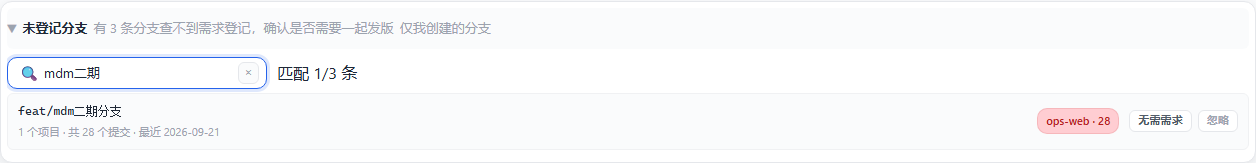
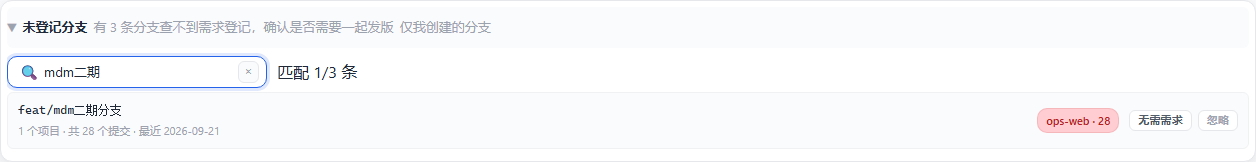
feat(release-pilot): 引擎端口漂移时在页头提示「数据按来源隔离」
localStorage 按「协议+主机+端口」隔离：v1 占着 1949 时 v2 会漂到 1950，
此时页面看到的是另一份（通常是空的）数据，很容易被当成「数据丢了」。
页头现在显示「引擎端口 1950（非默认）」徽标，悬停说明原因与恢复办法。

验证脚本新增两条断言：端口非默认时徽标可见（用临时改 .server-port + 独立 page 验证，
不影响主流程），端口正常时不出现。

diff --git a/todo-release.js b/todo-release.js
@@ -10,7 +10,17 @@ const JSON_FILENAME = 'toDo.json'
  * 所以启动时先读端口文件，读不到再退回默认值（旧引擎不写这个文件，属正常情况）。
  */
 const DEFAULT_API_PORT = 1949
-const api = { port: DEFAULT_API_PORT }
+// 用 reactive 而不是普通对象：端口是启动后才知道的，模板里的提示要跟着它出现
+const api = reactive({ port: DEFAULT_API_PORT })
+
+/**
+ * 引擎跑在非默认端口上。
+ *
+ * 这不仅是「换个地址」：localStorage 按来源（协议+主机+端口）隔离，
+ * 端口一变页面看到的就是另一份数据（通常是空的）。所以一旦漂移必须在界面上说清楚，
+ * 否则用户会以为「数据丢了」。
+ */
+const portShifted = computed(() => api.port !== DEFAULT_API_PORT)
 
 async function resolveApiPort() {
   try {
@@ -1641,6 +1651,8 @@ createApp({
       unregExpanded: computed({ get: () => state.unregExpanded, set: v => { state.unregExpanded = v } }),
       unregKeyword: computed({ get: () => state.unregKeyword, set: v => { state.unregKeyword = v } }),
       indexDiagnostics,
+      portShifted,
+      apiPort: computed(() => api.port),
       indexConfig: computed(() => state.indexConfig),
       indexNotMineTotal,
       // v2 飞书同步别名

diff --git a/todo-release.css b/todo-release.css
@@ -1409,6 +1409,13 @@ input[data-role="syncProjectName"] {
   color: var(--text-muted);
 }
 
+/* 引擎端口漂移提示：端口换了等于换了一份 localStorage，必须显眼。
+   做成页头里的一枚小徽标（不用绝对定位，避免和按钮挤在一起） */
+.port-note {
+  font-size: 11px; color: var(--warning); cursor: help; white-space: nowrap;
+  border: 1px solid currentColor; border-radius: var(--radius-sm); padding: 2px 8px;
+  margin-left: auto;
+}
 /* ===== Empty state ===== */
 .empty-state {
   text-align: center;
@@ -1418,7 +1425,6 @@ input[data-role="syncProjectName"] {
   background: var(--surface-raised);
   border-radius: var(--radius-lg);
 }
-
 /* ===== Toast ===== */
 .toast {
   position: fixed;

diff --git a/todo-release.html b/todo-release.html
@@ -44,6 +44,10 @@
       <button class="btn btn-outline btn-sm" @click="openSyncSettings">同步设置</button>
       <button class="btn btn-primary" @click="startAdding">+ 新增需求</button>
     </div>
+    <div class="port-note" v-if="portShifted"
+         :title="'引擎实际运行在 ' + apiPort + ' 端口（默认 1949 被占用，通常是老版本引擎先起来了）。浏览器按「协议+主机+端口」隔离数据，换端口等于换一份数据 —— 如果这里需求和配置是空的，先关掉占用 1949 的程序再重启引擎，或改用原来的地址打开。'">
+      引擎端口 {{apiPort}}（非默认）
+    </div>
   </div>
 
   <!-- Branch progress -->
